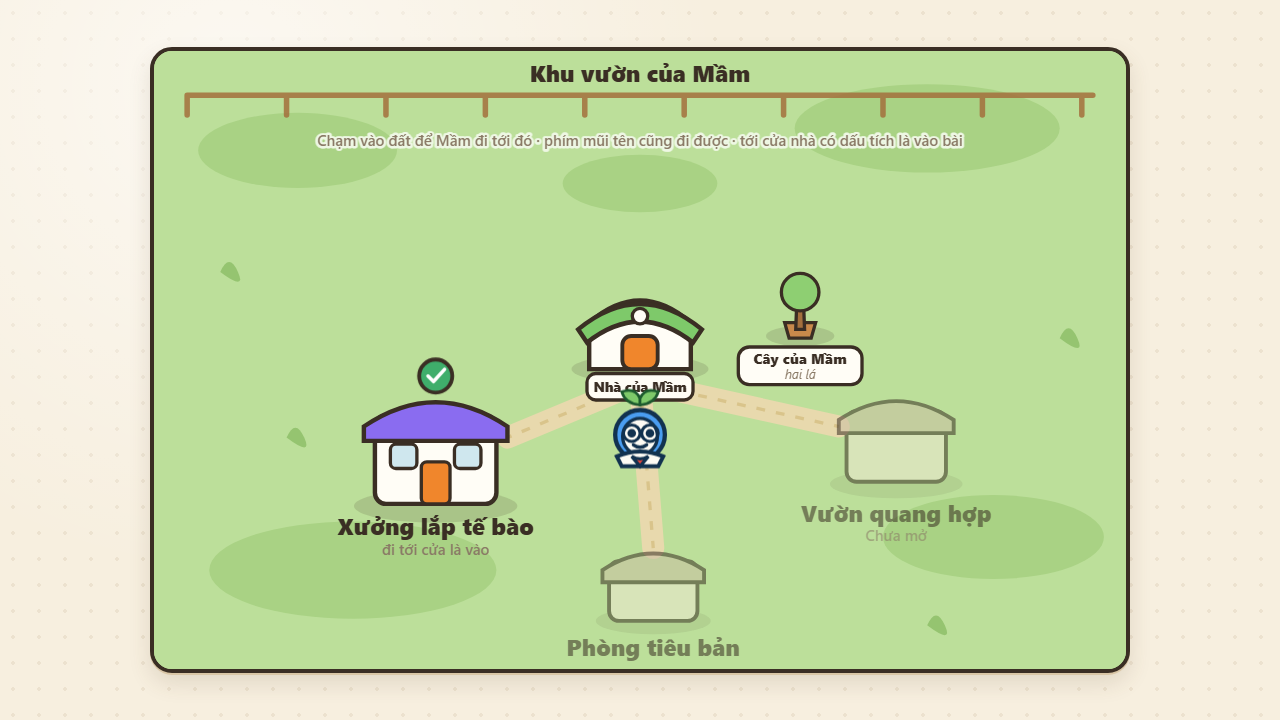
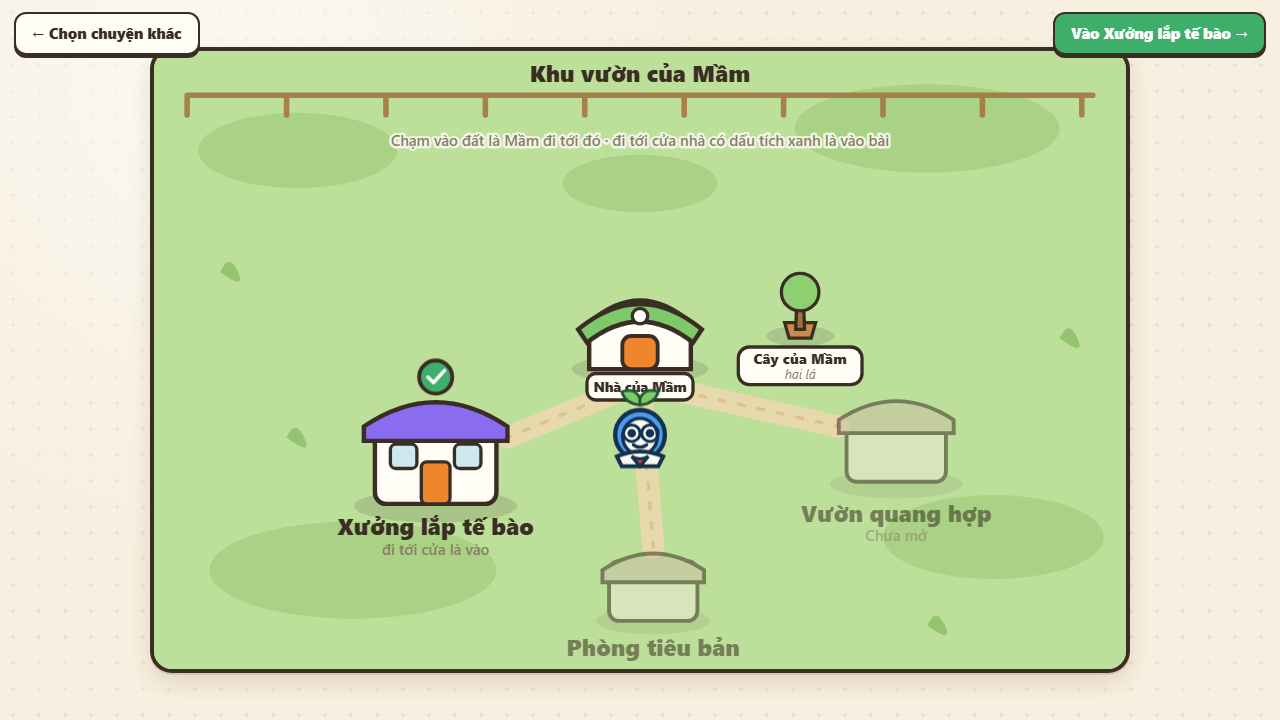
feat: màn chọn 11 câu hỏi 4 môn không khoá, bỏ màn ghép người chơi, nút lui/tiến mọi màn, hoạt họa nhặt-bê-đặt + bụi chân

diff --git a/prototype/xuong-lap-te-bao.html b/prototype/xuong-lap-te-bao.html
@@ -64,20 +64,39 @@
     border-radius:10px;padding:5px 12px;font-weight:800;font-size:14px}
   .tcard.locked{opacity:.55;cursor:default}
   .tcard.locked .tgo{background:#cfc4ad}
-  .joinrow{display:flex;gap:14px;flex-wrap:wrap;justify-content:center}
-  .jslot{
-    width:170px;min-height:190px;display:flex;flex-direction:column;align-items:center;justify-content:center;
-    gap:10px;background:var(--card);border:3px dashed #b9a67e;border-radius:18px;padding:16px 10px;
-    cursor:pointer;transition:.15s;text-align:center;
+  .subrow{display:flex;gap:8px;flex-wrap:wrap;justify-content:center;margin-bottom:16px}
+  .subchip{
+    font:inherit;font-weight:800;font-size:14px;padding:7px 16px;cursor:pointer;
+    background:var(--card);color:var(--ink);border:2.5px solid var(--ink);border-radius:99px;
+    box-shadow:0 2.5px 0 var(--edge);transition:.12s;
   }
-  .jslot b{font-size:14px;color:var(--muted);font-weight:700}
-  .jslot .javt{width:84px;height:92px}
-  .jslot.in{border-style:solid;border-color:var(--ink);box-shadow:var(--sh);background:#eef6ff}
-  .jslot.in b{color:var(--ink)}
-  .jslot.off{opacity:.4;cursor:default;border-style:dotted}
-  @keyframes joinpop{0%{transform:scale(.6)}70%{transform:scale(1.1)}100%{transform:scale(1)}}
-  .jslot.in .javt{animation:joinpop .3s ease}
-
+  .subchip:hover{transform:translateY(-2px)}
+  .subchip.on{background:var(--mc);color:#fff;box-shadow:0 2.5px 0 rgba(58,46,36,.6)}
+  .cards{display:flex;gap:14px;flex-wrap:wrap;justify-content:center;max-width:1080px;overflow-y:auto;padding:6px}
+  .tcard{
+    position:relative;display:flex;flex-direction:column;align-items:flex-start;gap:6px;
+    width:236px;min-height:186px;background:var(--card);border:3px solid var(--ink);
+    border-radius:18px;box-shadow:var(--sh);border-bottom:6px solid var(--mc);
+    padding:16px 15px 13px;font:inherit;text-align:left;cursor:pointer;color:var(--ink);
+    transition:transform .14s, box-shadow .14s;
+  }
+  .tcard:nth-child(odd){transform:rotate(-.8deg)}
+  .tcard:nth-child(3n){transform:rotate(.9deg)}
+  .tcard:hover{transform:translateY(-7px) rotate(0);box-shadow:0 3px 0 var(--edge),0 16px 30px rgba(90,70,40,.2)}
+  .tcard:hover .tico{transform:scale(1.25) rotate(-8deg)}
+  .tcard .tico{font-size:34px;line-height:1;transition:transform .18s}
+  .tcard b{font-size:16.5px;line-height:1.35}
+  .tcard small{color:var(--muted);font-weight:700}
+  .tcard .tgo{margin-top:auto;background:var(--mc);color:#fff;border:2.5px solid var(--ink);
+    border-radius:10px;padding:4px 12px;font-weight:800;font-size:13.5px}
+  .tcard .tstar{position:absolute;top:-11px;right:10px;background:var(--gold);border:2.5px solid var(--ink);
+    border-radius:99px;padding:2px 10px;font-size:11.5px;font-weight:800}
+  @keyframes cardpick{0%{transform:scale(1)}40%{transform:scale(1.12) rotate(2deg)}100%{transform:scale(.9);opacity:.4}}
+  .tcard.picked{animation:cardpick .3s ease forwards}
+  /* nút lui/tiến nổi trên khu vườn — màn nào cũng phải có đường ra */
+  .gnav{position:absolute;top:12px;left:14px;right:14px;display:flex;gap:10px;z-index:6;pointer-events:none}
+  .gnav .btn{pointer-events:auto}
+  .gnav .sp{flex:1}
   /* ───── 1 · KHU VƯỜN ───── */
   #scr-map .wrap{flex:1;display:grid;place-items:center;padding:14px;min-height:0}
   #scr-map svg{width:min(96vw,980px);max-height:92vh;border-radius:22px;border:4px solid var(--ink);
@@ -245,56 +264,20 @@
 <section id="scr-topic" class="screen on">
   <div class="topic-wrap">
     <h1 class="stick" style="transform:rotate(-1deg);font-size:24px">Hôm nay bạn tò mò chuyện gì?</h1>
-    <p class="topic-sub">Chọn một câu hỏi — mỗi câu là một chuyến đi</p>
-    <div class="cards">
-      <button class="tcard" onclick="UI.goJoin()">
-        <span class="tico">🧬</span>
-        <b>Làm sao tế bào biết phải làm việc gì?</b>
-        <small>Sinh học 10 · Bài 8</small>
-        <span class="tgo">Chơi ngay →</span>
-      </button>
-      <button class="tcard locked" disabled>
-        <span class="tico">🌿</span>
-        <b>Cây ăn gì để sống?</b>
-        <small>Sinh học 11</small>
-        <span class="tgo">Chưa mở</span>
-      </button>
-      <button class="tcard locked" disabled>
-        <span class="tico">❤</span>
-        <b>Vì sao tim đập cả đời không nghỉ?</b>
-        <small>Sinh học 8</small>
-        <span class="tgo">Chưa mở</span>
-      </button>
-    </div>
+    <p class="topic-sub">Chạm vào một câu hỏi là lên đường luôn</p>
+    <div class="subrow" id="subrow"></div>
+    <div class="cards" id="cardbox"></div>
   </div>
 </section>
 
-<!-- ════════ 0b · GHÉP NGƯỜI CHƠI ════════ -->
-<section id="scr-join" class="screen">
-  <div class="topic-wrap">
-    <h1 class="stick" style="transform:rotate(-1deg);font-size:24px">Ai chơi nào?</h1>
-    <p class="topic-sub">Bấm phím bất kỳ hoặc chạm vào ô để vào chơi · game này tối đa 2 người</p>
-    <div class="joinrow">
-      <div class="jslot" data-slot="0" onclick="UI.join(0)">
-        <div class="javt" id="javt0"></div>
-        <b id="jname0">Bấm để vào</b>
-      </div>
-      <div class="jslot" data-slot="1" onclick="UI.join(1)">
-        <div class="javt" id="javt1"></div>
-        <b id="jname1">Chờ người chơi 2…</b>
-      </div>
-      <div class="jslot off"><div class="javt"></div><b>Game này tối đa 2 người</b></div>
-      <div class="jslot off"><div class="javt"></div><b>Game này tối đa 2 người</b></div>
-    </div>
-    <div style="display:flex;gap:10px;justify-content:center;margin-top:22px">
-      <button class="btn ghost" onclick="UI.goTopic()">← Chọn câu khác</button>
-      <button class="btn go" id="btnJoinGo" disabled onclick="UI.goGarden()">Vào khu vườn →</button>
-    </div>
-  </div>
-</section>
 
 <!-- ════════ 1 · KHU VƯỜN ════════ -->
 <section id="scr-map" class="screen">
+  <div class="gnav">
+    <button class="btn" onclick="UI.goTopic()">← Chọn chuyện khác</button>
+    <div class="sp"></div>
+    <button class="btn go" onclick="UI.gardenGo('lab')">Vào Xưởng lắp tế bào →</button>
+  </div>
   <div class="wrap">
     <svg id="garden" viewBox="0 0 880 560" aria-label="Khu vườn của Mầm">
       <!-- cỏ -->
@@ -368,7 +351,7 @@
       <g id="gardenHero"></g>
 
       <text x="440" y="28" text-anchor="middle" class="maplbl" font-size="24">Khu vườn của Mầm</text>
-      <text x="440" y="86" text-anchor="middle" class="mapsub" font-size="14" paint-order="stroke" stroke="#eef7e4" stroke-width="4" stroke-linejoin="round">Chạm vào đất để Mầm đi tới đó · phím mũi tên cũng đi được · tới cửa nhà có dấu tích là vào bài</text>
+      <text x="440" y="86" text-anchor="middle" class="mapsub" font-size="14" paint-order="stroke" stroke="#eef7e4" stroke-width="4" stroke-linejoin="round">Chạm vào đất là Mầm đi tới đó · đi tới cửa nhà có dấu tích xanh là vào bài</text>
     </svg>
   </div>
 </section>
@@ -467,7 +450,7 @@
 
      <div class="acts2">
        <button class="btn" onclick="UI.replay()">Làm lại từ đầu</button>
-       <button class="btn go" onclick="UI.doneToMap()">Về bản đồ →</button>
+       <button class="btn go" onclick="UI.doneToMap()">Về khu vườn →</button>
      </div>
    </aside>
   </div>
@@ -1291,6 +1274,7 @@ const UI = (function(){
     if (d > 2){
       const step = Math.min(d, WALK_SPEED * dt);
       hero.x += dx / d * step; hero.y += dy / d * step;
+      if (layerFx) fxFootDust();            // bụi chân lúc chạy
     } else if (hero.onArrive){
       const f = hero.onArrive; hero.onArrive = null; f();
     }
@@ -1330,6 +1314,49 @@ const UI = (function(){
   // tự mang tới đặt luôn, không quên việc giữa chừng.
   let wantOrg = null, wantPad = null;
 
+  /* Hoạt họa nhặt–bê–đặt: cái máy bay vòng cung, có nhún, có bụi.
+     Chỉ là lớp hình — mô phỏng vẫn đặt/gỡ đúng lúc hoạt họa chạm đất. */
+  function fxHop(orgId, from, to, dur, done){
+    const g = E('g', {}, layerFx);
+    const t0 = performance.now();
+    (function anim(now){
+      const t = Math.min(1, (now - t0) / dur);
+      const x = from.x + (to.x - from.x) * t;
+      const y = from.y + (to.y - from.y) * t - Math.sin(t * Math.PI) * 84;
+      const sq = t > 0.86 ? 1 + Math.sin((t - 0.86) / 0.14 * Math.PI) * 0.22 : 1;
+      g.innerHTML = `<g transform="translate(${x},${y}) scale(${sq},${2 - sq}) rotate(${(1 - t) * -14})">
+        <g transform="translate(-22,-22)">${orgGlyph(orgId, 44)}</g></g>`;
+      if (t < 1 && g.parentNode) requestAnimationFrame(anim);
+      else { g.remove(); fxDustRing(to.x, to.y + 6); if (done) done(); }
+    })(t0);
+  }
+  function fxDustRing(x, y){
+    for (let i = 0; i < 7; i++){
+      const c = E('circle', { r: 4 + (i % 3) * 2, fill: '#d9c48b' }, layerFx);
+      const a = (i / 7) * Math.PI * 2, t0 = performance.now();
+      (function anim(now){
+        const t = Math.min(1, (now - t0) / 420);
+        c.setAttribute('cx', x + Math.cos(a) * 34 * t);
+        c.setAttribute('cy', y + Math.sin(a) * 13 * t);
+        c.setAttribute('opacity', 1 - t);
+        if (t < 1 && c.parentNode) requestAnimationFrame(anim); else c.remove();
+      })(t0);
+    }
+  }
+  let lastDust = 0;
+  function fxFootDust(){
+    if (performance.now() - lastDust < 170) return;
+    lastDust = performance.now();
+    const c = E('circle', { cx: hero.x - hero.face * 12, cy: hero.y + 2, r: 5, fill: '#e2d2ae' }, layerFx);
+    const t0 = performance.now();
+    (function anim(now){
+      const t = Math.min(1, (now - t0) / 380);
+      c.setAttribute('r', 5 + t * 7);
+      c.setAttribute('opacity', 0.75 * (1 - t));
+      if (t < 1 && c.parentNode) requestAnimationFrame(anim); else c.remove();
+    })(t0);
+  }
+
   function pickUp(id){
     const s = SIM.snapshot(sim);
     if (Object.values(s.pads).includes(id) || hero.carrying === id) return;
@@ -1344,10 +1371,13 @@ const UI = (function(){
     }
     wantOrg = id; wantPad = null;
     heroWalkTo(x, 528, () => {
-      hero.carrying = id; wantOrg = null;
-      showInfo(id); refreshTray();
-      lastActionAt = performance.now();
-      if (wantPad){ const pd = wantPad; wantPad = null; padTapped(pd); }
+      // máy bay vòng cung từ mép khay lên đầu Mầm
+      fxHop(id, { x: hero.x, y: 648 }, { x: hero.x, y: hero.y - 58 }, 420, () => {
+        hero.carrying = id; wantOrg = null;
+        showInfo(id); refreshTray();
+        lastActionAt = performance.now();
+        if (wantPad){ const pd = wantPad; wantPad = null; padTapped(pd); }
+      });
     });
   }
 
@@ -1360,13 +1390,17 @@ const UI = (function(){
         const org = SIM.remove(sim, pid);
         if (org){ hero.carrying = org; lastActionAt = performance.now(); refreshTray(); handleEvents(); render(); }
       });
-    } else if (hero.carrying){              // trống + đang vác: tới đặt xuống
+    } else if (hero.carrying){              // trống + đang vác: tới nơi, máy nhảy từ đầu xuống trạm
       heroWalkTo(p.x, p.y + 92, () => {
-        if (hero.carrying && SIM.place(sim, pid, hero.carrying)){
-          hero.carrying = null; hideInfo();
+        if (!hero.carrying) return;
+        const org = hero.carrying;
+        hero.carrying = null;
+        fxHop(org, { x: hero.x, y: hero.y - 58 }, { x: p.x, y: p.y }, 430, () => {
+          if (!SIM.place(sim, pid, org)){ hero.carrying = org; return; }
+          hideInfo();
           lastActionAt = performance.now();
           refreshTray(); handleEvents(); render();
-        }
+        });
       });
     } else if (wantOrg){                    // đang trên đường đi lấy máy: ghi nhớ trạm đích
       wantPad = pid;
@@ -1417,26 +1451,55 @@ const UI = (function(){
 
   /* ---------- điều hướng & nút ---------- */
   let everStarted = false;
-  const SCREENS = ['scr-topic', 'scr-join', 'scr-map', 'scr-play'];
+  const SCREENS = ['scr-topic', 'scr-map', 'scr-play'];
   function showScreen(id){
     for (const sid of SCREENS) $('#' + sid).classList.toggle('on', sid === id);
   }
   function goTopic(){ showScreen('scr-topic'); }
-  function goJoin(){ showScreen('scr-join'); }
 
-  /* ghép người chơi kiểu Pico Park: bấm phím / chạm ô để vào */
-  const players = [null, null];
-  function join(slot){
-    if (slot > 1 || players[slot]) return;
-    players[slot] = true;
-    const colors = ['#4a9df0', '#f0862c'];
-    $('#javt' + slot).innerHTML =
-      `<svg width="84" height="92" viewBox="0 0 46 52">${mamGlyph(1, 'yay').replace(/#4a9df0/g, colors[slot])}</svg>`;
-    $('#jname' + slot).textContent = 'Người chơi ' + (slot + 1) + ' đã vào!';
-    document.querySelectorAll('.jslot')[slot].classList.add('in');
-    $('#btnJoinGo').disabled = false;
+  /* ── Kho câu hỏi: nhiều môn, chạm câu nào cũng đi được, không khoá ── */
+  const TOPICS = [
+    { mon:'Sinh học', ico:'🧬', hoi:'Làm sao tế bào biết phải làm việc gì?', lop:'Sinh 10', game:true },
+    { mon:'Sinh học', ico:'🌿', hoi:'Cây ăn gì để sống?',                    lop:'Sinh 11' },
+    { mon:'Sinh học', ico:'❤', hoi:'Vì sao tim đập cả đời không nghỉ?',     lop:'Sinh 8' },
+    { mon:'Sinh học', ico:'🦠', hoi:'Vi khuẩn bé cỡ nào mà làm mình ốm?',    lop:'Sinh 10' },
+    { mon:'Vật lý',   ico:'⚡', hoi:'Điện trong nhà chạy từ đâu tới?',        lop:'KHTN 8' },
+    { mon:'Vật lý',   ico:'🧲', hoi:'Nam châm hút được những thứ gì?',        lop:'KHTN 7' },
+    { mon:'Vật lý',   ico:'🌈', hoi:'Cầu vồng từ đâu ra?',                    lop:'KHTN 9' },
+    { mon:'Hóa học',  ico:'🧂', hoi:'Muối tan đi đâu trong cốc nước?',        lop:'KHTN 8' },
+    { mon:'Hóa học',  ico:'🔥', hoi:'Lửa ăn gì mà cháy mãi?',                 lop:'KHTN 8' },
+    { mon:'Địa lý',   ico:'🌋', hoi:'Núi lửa phun vì cái gì?',                lop:'Địa 10' },
+    { mon:'Địa lý',   ico:'🌧', hoi:'Mưa từ đâu rơi xuống?',                 lop:'Địa 6' }
+  ];
+  const MON_COLOR = { 'Sinh học':'#3fae6b', 'Vật lý':'#3f8fe8', 'Hóa học':'#ea5fae', 'Địa lý':'#f0862c' };
+  let curMon = 'Tất cả';
+
+  function pickSubject(mon){
+    curMon = mon;
+    renderTopics();
   }
-  function joinNext(){ join(players[0] ? 1 : 0); }
+  function renderTopics(){
+    const row = $('#subrow');
+    const mons = ['Tất cả', ...new Set(TOPICS.map(t => t.mon))];
+    row.innerHTML = mons.map(m =>
+      `<button class="subchip${m === curMon ? ' on' : ''}" style="--mc:${MON_COLOR[m] || '#8a7a66'}"
+        onclick="UI.pickSubject('${m}')">${m}</button>`).join('');
+    const box = $('#cardbox');
+    box.innerHTML = TOPICS.map((t, i) => {
+      if (curMon !== 'Tất cả' && t.mon !== curMon) return '';
+      return `<button class="tcard" style="--mc:${MON_COLOR[t.mon]}" onclick="UI.chooseTopic(${i}, this)">
+        ${t.game ? '<span class="tstar">★ có game mẫu</span>' : ''}
+        <span class="tico">${t.ico}</span>
+        <b>${t.hoi}</b>
+        <small>${t.mon} · ${t.lop}</small>
+        <span class="tgo">Đi thôi →</span>
+      </button>`;
+    }).join('');
+  }
+  function chooseTopic(i, el){
+    if (el){ el.classList.add('picked'); }
+    setTimeout(() => goGarden(), 260);
+  }
 
   /* khu vườn: Mầm đi bộ tới nhà bài học */
   const gHero = { x: 440, y: 340, tx: 440, ty: 340, face: 1, onArrive: null };
@@ -1551,7 +1614,6 @@ const UI = (function(){
   window.__setRun = on => { SIM.setRun(sim, on); syncRunBtn(); };
   window.__state = () => ({
     screen: $('#scr-topic').classList.contains('on') ? 'topic'
-          : $('#scr-join').classList.contains('on') ? 'join'
           : $('#scr-map').classList.contains('on') ? 'map'
           : ($('#scr-play').classList.contains('done-mode') ? 'done' : 'play'),
     mamStage,
@@ -1562,7 +1624,6 @@ const UI = (function(){
     if (name === 'play') goPlay();
     else if (name === 'map' || name === 'garden'){ closeDone(); goGarden(); }
     else if (name === 'topic') goTopic();
-    else if (name === 'join') goJoin();
     else if (name === 'done') showDone();
   };
   window.__screenPos = id => {
@@ -1582,10 +1643,6 @@ const UI = (function(){
   const KEY_ORDER = Object.keys(SIM.ORGS);
   window.addEventListener('keydown', e => {
     if (e.key === 'Escape'){ dropCarry(); hideInfo(); return; }
-    if ($('#scr-join').classList.contains('on')){        // màn ghép: bấm phím bất kỳ để vào
-      if (!e.key.startsWith('F')) joinNext();
-      return;
-    }
     const playOn = $('#scr-play').classList.contains('on');
     const mapOn = $('#scr-map').classList.contains('on');
     if (e.key.startsWith('Arrow') && (playOn || mapOn)){ keys.add(e.key); e.preventDefault(); return; }
@@ -1608,10 +1665,10 @@ const UI = (function(){
     const p = new DOMPoint(e.clientX, e.clientY).matrixTransform(svg.getScreenCTM().inverse());
     if (p.x > 40 && p.x < 850 && p.y > 90 && p.y < 545) gardenWalkTo(p.x, p.y);
   });
-  buildScene(); buildTray(); drawMam('calm'); drawMapTree();
+  buildScene(); buildTray(); drawMam('calm'); drawMapTree(); renderTopics();
   raf = requestAnimationFrame(loop);
 
-  return { goPlay, goMap, goTopic, goJoin, goGarden, join, gardenGo, replay, doneToMap, hideInfo };
+  return { goPlay, goMap, goTopic, goGarden, gardenGo, chooseTopic, pickSubject, replay, doneToMap, hideInfo };
 })();
 </script>
 </body>

diff --git a/prototype/qa/_flowshot.js b/prototype/qa/_flowshot.js
@@ -14,19 +14,12 @@ const { chromium } = require(path.join('c:/Trường học số - source code/pr
   await pg.waitForTimeout(350);
   await shot('1-topic');
 
-  // ① chọn thẻ đầu
-  await pg.click('.tcard:not(.locked)');
-  await pg.waitForTimeout(250);
-  await shot('2-join-empty');
-
-  // ② bấm phím để vào, rồi chạm ô 2
-  await pg.keyboard.press('a');
+  // ① lọc môn rồi chọn thẻ có game mẫu
+  await pg.click('.subchip:nth-child(2)');            // Sinh học
   await pg.waitForTimeout(200);
-  await pg.click('.jslot[data-slot="1"]');
-  await pg.waitForTimeout(300);
-  await shot('3-join-2p');
-  await pg.click('#btnJoinGo');
-  await pg.waitForTimeout(350);
+  await shot('2-topic-sinh');
+  await pg.click('.tcard');
+  await pg.waitForTimeout(500);
   await shot('4-garden');
 
   // ③ chạm đất để Mầm đi, rồi chạm nhà bài học
